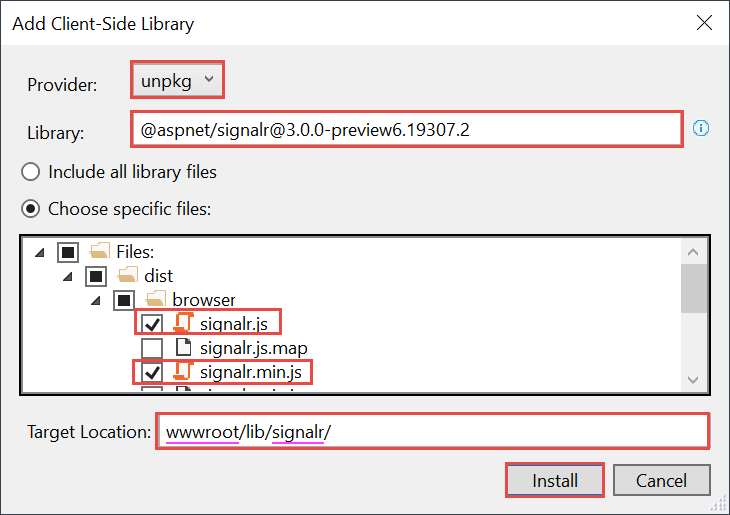
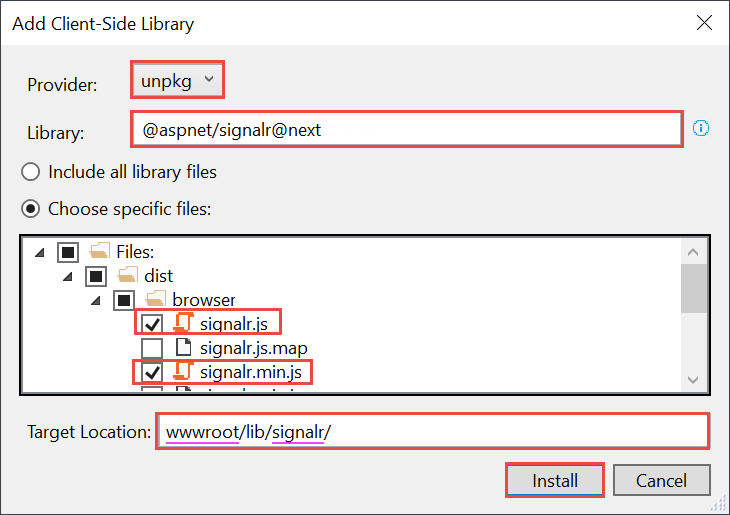
use @next

Changed region(s): [[0.1808, 0.2175, 0.6329, 0.2796]]

diff --git a/aspnetcore/tutorials/signalr.md b/aspnetcore/tutorials/signalr.md
@@ -90,7 +90,8 @@ The SignalR server library is included in the ASP.NET 3.0 shared framework. The 
 
 * In the **Add Client-Side Library** dialog, for **Provider** select **unpkg**.
 
-* For **Library**, enter `@aspnet/signalr@3.0.0-preview6.19307.2`.
+* For **Library**, enter `@aspnet/signalr@next`.
+<!-- when 3.0 is released, change @next to @latest -->
 
 * Select **Choose specific files**, expand the *dist/browser* folder, and select *signalr.js* and *signalr.min.js*.
 
@@ -111,7 +112,7 @@ The SignalR server library is included in the ASP.NET 3.0 shared framework. The 
 * Run the following command to get the SignalR client library by using LibMan. You might have to wait a few seconds before seeing output.
 
   ```console
-  libman install @aspnet/signalr@3.0.0-preview6.19307.2 -p unpkg -d wwwroot/lib/signalr --files dist/browser/signalr.js --files dist/browser/signalr.min.js
+  libman install @aspnet/signalr@next -p unpkg -d wwwroot/lib/signalr --files dist/browser/signalr.js --files dist/browser/signalr.min.js
   ```
 
   The parameters specify the following options:
@@ -124,7 +125,7 @@ The SignalR server library is included in the ASP.NET 3.0 shared framework. The 
   ```console
   wwwroot/lib/signalr/dist/browser/signalr.js written to disk
   wwwroot/lib/signalr/dist/browser/signalr.min.js written to disk
-  Installed library "@aspnet/signalr@3.0.0-preview6.19307.2" to "wwwroot/lib/signalr"
+  Installed library "@aspnet/signalr@next" to "wwwroot/lib/signalr"
   ```
 
 # [Visual Studio for Mac](#tab/visual-studio-mac)
@@ -140,7 +141,7 @@ The SignalR server library is included in the ASP.NET 3.0 shared framework. The 
 * Run the following command to get the SignalR client library by using LibMan.
 
   ```console
-  libman install @aspnet/signalr@3.0.0-preview6.19307.2 -p unpkg -d wwwroot/lib/signalr --files dist/browser/signalr.js --files dist/browser/signalr.min.js
+  libman install @aspnet/signalr@next -p unpkg -d wwwroot/lib/signalr --files dist/browser/signalr.js --files dist/browser/signalr.min.js
   ```
 
   The parameters specify the following options:
@@ -153,7 +154,7 @@ The SignalR server library is included in the ASP.NET 3.0 shared framework. The 
   ```console
   wwwroot/lib/signalr/dist/browser/signalr.js written to disk
   wwwroot/lib/signalr/dist/browser/signalr.min.js written to disk
-  Installed library "@aspnet/signalr@3.0.0-preview6.19307.2" to "wwwroot/lib/signalr"
+  Installed library "@aspnet/signalr@next" to "wwwroot/lib/signalr"
   ```
 
 ---
